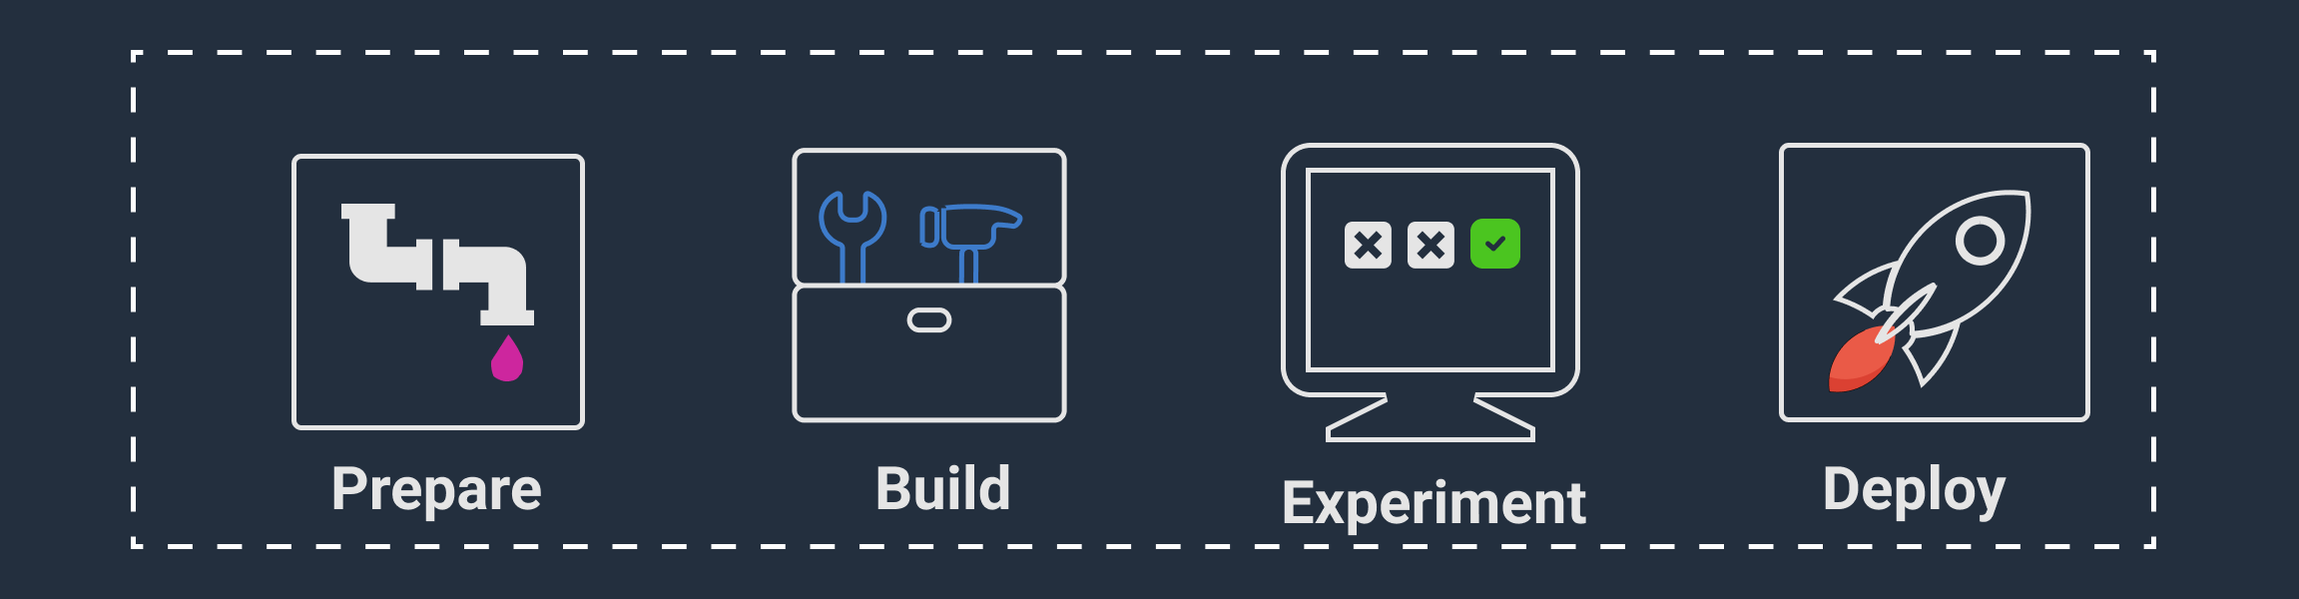
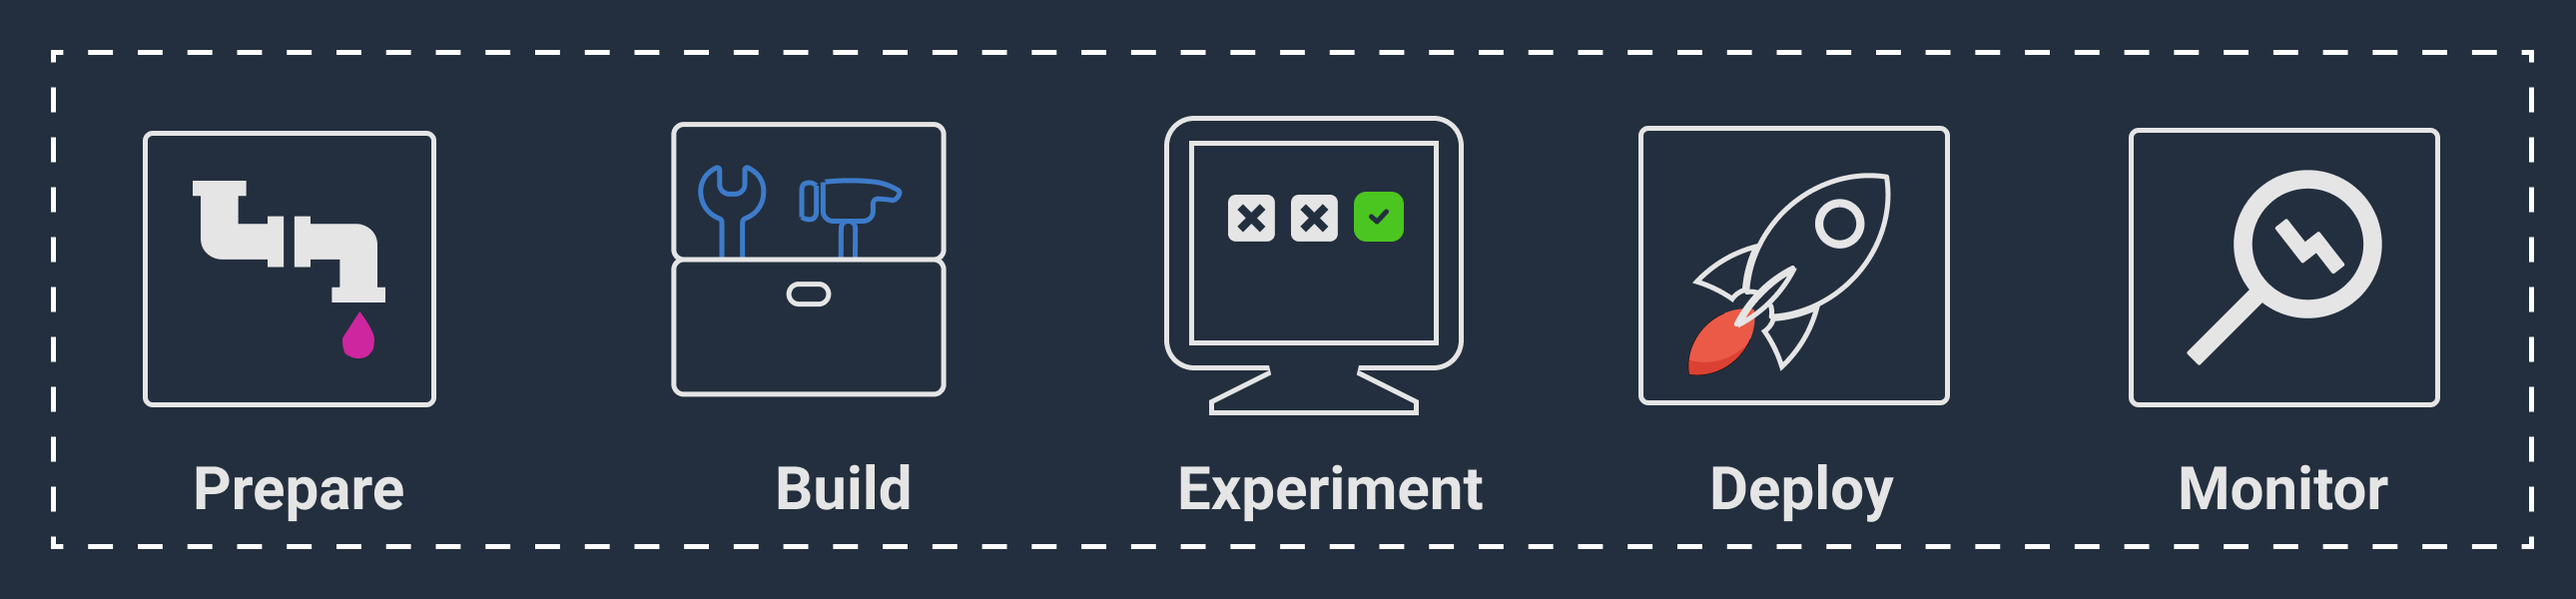
container life-cycles and templates

diff --git a/docs/.vuepress/config.js b/docs/.vuepress/config.js
@@ -58,6 +58,7 @@ module.exports = {
             './',
             'quickStart',
             'coreConcepts',
+            'platforms',
             'contributing'
           ]
         },
@@ -68,7 +69,8 @@ module.exports = {
             '../cli/container',
             '../cli/local',
             '../cli/registry',
-            '../cli/configure'
+            '../cli/configure',
+            '../cli/templates'
           ]
         }
       ],
@@ -80,7 +82,8 @@ module.exports = {
             'container',
             'local',
             'registry',
-            'configure'
+            'configure',
+            'templates'
           ]
         }
       ]

diff --git a/docs/guide/coreConcepts.md b/docs/guide/coreConcepts.md
@@ -6,48 +6,75 @@ In our experience, getting machine learning to production meant solving the foll
 
 ![mldock-core-functions](/images/mldock-core-functions.png)
 
-As MLDOCK is a docker-based tool, it solves the these challenges by leveraging the standard docker API's (build, run, etc). Ofcourse the most powerful of the docker functionality is the ability to encapsulate everything an application needs to run in to a single image ie. providing and running scripts, deploying a server to deploy your code, passing parameters to scripts through environment variables and command line arguments. To satisfy the rest of the requirements and bring it all together, MLDOCK provides a design system for [container life-cycle management](./coreConcepts.html#container-life-cycle-management).
+As MLDOCK is a docker-based tool, it solves the these challenges by leveraging the standard docker API's (build, run, etc). Ofcourse the most powerful of the docker functionality is the ability to encapsulate everything an application needs to run in to a single container project ie. providing and running scripts, deploying a server to deploy your code, passing parameters to scripts through environment variables and command line arguments. To satisfy the rest of the requirements and bring it all together, MLDOCK provides a design system for container life-cycle management.
 
 ## Container Life-Cycle Management
 
-Similar to how your training script describes the steps taken to train a new machine learning model, a container has life-cycle or set of steps that define when and how certain tasks should be done. A typical container life-cycle could comprise of:
+Similar to how your training script describes the steps taken to train a new machine learning model, a container has a life-cycle or set of steps that define when and how certain tasks should be done. Mldocks's standard container life-cycle can be described by the following steps:
 
 ![mldock-container-lifecycle-management](/images/mldock-container-lifecycle-management.png)
 
 We call it a design system because at it's core we provide a base environment class that can be inherited and extended. Allowing you to build new life-cycles for your requirements, including any new cloud platforms and just about any additional API calls and pythonic code.
 
+### How MLDOCK supports container life-cycles
+
+MLDOCK provides a base `Environment()` class that is used as a basis to all our container life-cycle workflows.
+In short, this class sets up:
+1. container working directory at `/opt/ml`.
+2. Reads the environment variables to get `input, model, output` channels set up and downloaded.
+3. Reads the environment variables to find `hyperparameters`.
+
+We then leverage the `Environment()` class within the `Assets.py` script to create container life-cycle configuration classes i.e. `TrainingContainer` and `ServingContainer`. These classes that take an `Environment()` object at `__init__` and have methods `startup()` and `cleanup()`. Together the environment and `startup()` and `cleanup()` methods are used to:
+- prepare the container (as described above)
+- download machine learning assets before the main script executes.
+- upload machine learning assets once the main script is done executing.
+
 ## Supported Life-Cycles
 
-Currently supports we support to life-cycle management types out of the box, namely:
+Currently, we support to life-cycle management types out of the box, namely:
 1. `Environment()` module based life-cycle management system
 2. `Asset.py` scripted life-cycle management system
 
 ::: tip
-For MLDOCK-based containers both the `Environment()` module and `Assets.py` are provided out the box. By default all they do is set up the appropriate container environment and file-system, but they can be extended to manage machine learning assets, provide platform specific integrations and run clean up tasks on the containers.
+For MLDOCK-based containers both the `Environment()` module and `Assets.py` are required and provided during the [container init](../cli/container.html#initialize) process. By default all they do is set up the appropriate container environment and file-system, but they can be extended to manage machine learning assets, provide platform specific integrations and run clean up tasks on the containers.
 
 :rocket: The possiblities are almost endless.
 :::
 
 
-##### Environment() module
+### Environment() module
 
 This extends the base environment and adds special environment variables to manage the life-cycle stages. Users can define specific environment variables with prefixes that can be automatically discovered at container set up. There really two types of model assets, INPUT - downloaded from blob storage to training instance at task startup and OUTPUT - uploaded back to blob storage no task completion.
 
 | **ENV VAR Prefix Regex** | **Use Case** |
 |--|--|
-| `INPUT_CHANNEL_.*` | Providing input assets for your model container runtime, e.g. Providing training data stored in s3 for your model, `INPUT_CHANNEL_TRAIN=s3://bucket/path/to/directory/containing/data` |
-| `INPUT_MODEL_CHANNEL_.*` | Providing a pre-trained model or previously trained model checkpoint for container runtime, e.g. If stored in s3 this could be: `INPUT_MODEL_CHANNEL_RESNET=s3://bucket/path/to/directory/containing/resnet/model` |
-| `OUTPUT_CHANNEL_.*` | Instructing mldock where upload resulting assets from training completion, e.g. If using s3 as your remote it could look like this: `INPUT_CHANNEL_TRAIN=s3://bucket/path/to/directory/to/upload/output/data` |
-| `OUTPUT_MODEL_CHANNEL_.*` | Instructing mldock where upload completed or trained model assets on training completion, e.g. If using s3 as your remote it could look like this: `OUTPUT_MODEL_CHANNEL_MYMODEL=s3://bucket/path/to/directory/containing/mymodel/model` |
+| `MLDOCK_INPUT_CHANNEL_.*` | Providing input assets for your model container runtime, e.g. Providing training data stored in s3 for your model, `MLDOCK_INPUT_CHANNEL_TRAIN=s3://bucket/path/to/directory/containing/data` |
+| `MLDOCK_INPUT_MODEL_CHANNEL_.*` | Providing a pre-trained model or previously trained model checkpoint for container runtime, e.g. If stored in s3 this could be: `MLDOCK_INPUT_MODEL_CHANNEL_RESNET=s3://bucket/path/to/directory/containing/resnet/model` |
+| `MLDOCK_OUTPUT_CHANNEL_.*` | Instructing mldock where upload resulting assets from training completion, e.g. If using s3 as your remote it could look like this: `MLDOCK_INPUT_CHANNEL_TRAIN=s3://bucket/path/to/directory/to/upload/output/data` |
+| `MLDOCK_OUTPUT_MODEL_CHANNEL_.*` | Instructing mldock where upload completed or trained model assets on training completion, e.g. If using s3 as your remote it could look like this: `MLDOCK_OUTPUT_MODEL_CHANNEL_MYMODEL=s3://bucket/path/to/directory/containing/mymodel/model` |
 
 ::: tip
-Please note in the local CLI all environment variables provided in the `mldock.json` configuration are prefixed with `MLDOCK_` before being passed in to the container environment. E.g. Say you wanted to pass a flag to disable CSV headers, called `HEADERS=false`, finding them in the MLDOCK container would mean looking for `MLDOCK_HEADERS`. This just makes sure that ENV VARS for both MLDOCK Environment Variables and the Cloud Platform (Sagemaker, etc) Environment Variables can coexist.
+Please note in the local CLI all environment variables provided in the `mldock.json` configuration are prefixed with `MLDOCK_` automatically before being passed in to the container environment. In production, you would do this prefixing manually. E.g. Say you wanted to pass a flag to disable CSV headers, called `HEADERS=false`, finding them in the MLDOCK container would mean looking for `MLDOCK_HEADERS`. This just makes sure that ENV VARS for both MLDOCK Environment Variables and the Cloud Platform (Sagemaker, etc) Environment Variables can coexist.
 :::
 
-##### Asset.py script
+#### How to use the Environment() workfow
+
+To use any of the above `input, model or output` channels, simply add an appropriate channel regex to your environment variables with your given remote path as key. The machine learning assets will be downloaded and uploaded according to your current `Environment()` class i.e. the `AWSEnvironment()` treats `Amazon S3` as your remote and will fetch your machine learning assets from your `Amazon S3` filepath.
+
+### Asset.py script
 
 `Assets.py` is a script provided to define your container life-cycles and instantiate your environment and other shared assets for training or prediction tasks.
 
 ::: tip
 As an advantage of this `Assets.py` design, when you create your container life-cycles by extending the base environment you can use python to set out any additional tasks used during either `startup` or `cleanup` steps which are called before your script and on final after your script execution.
 :::
+
+#### How to use the Assets.py workfow
+
+Using python, extend your `TrainingContainer()` and `ServingContainer()` to add additional tasks that mldock should execute when running `startup()` and `cleanup()` methods.
+
+## Stages to support different workflows
+
+Stages provides the developer with ways to design different workflows for production, development and testing. `MLDOCK_STAGE` environment variable is pulled in your container and allows your to run different container `startup()` and `cleanup()` workflows according your stage.
+
+Extending the `Assets.py` workflow, we can now bring in `MLDOCK_STAGE` to allow the developer to fetch data or upload data to different places.

diff --git a/docs/guide/README.md b/docs/guide/README.md
@@ -1,10 +1,18 @@
 # Introducing MLDOCK :tada:
 
-As Data Scientists, docker can be both a huge enabler and a huge headache. And if you're a Data Scientist with a goal of deploying machine learning in to production, you might find that MLOps and Data Ops take up 90% of your time.
+As Data Scientists, docker can be both a huge enabler and a huge headache. And if you're developing machine learning with a goal of deploying to production, you might find that MLOps and Data Ops take up a huge chunk of your time.
 
-Questions like .. "Which server, where to serve, how to maintain the code, how to maintain the model..." become huge set of hurdles to overcome. Nevermind the challenges of validating experiments, analyzing performance and generating insights for better algorithms. The real data science. :microscope: ;)
+Questions like .. "Which server, where to serve, how to maintain the code, how to maintain the model..." become huge set of hurdles to overcome. Nevermind the challenges of validating experiments, analyzing performance and generating insights for better algorithms. :microscope:
 
 That is why we built MLDOCK. **To support the development of machine learning and enable you to get more models to production, faster and easier**.
+AT MLDOCK aour goal is to provide tools that help you **"Build local, Deploy everywhere"**. :whale:, so that you:
+
+- :heavy_check_mark: Spend more time validating :balance_scale:, experimenting :alembic: and getting new features in to production :
+- :x: lose far less hours :stopwatch: struggling with bash scripts
+- :heavy_check_mark: Combine MLDOCK with any open-source platform or tool :hammer: to achieve your Machine learning goals :dart:.
+- :x: lose far less energy :zap: wrangling your machine learning assets.
+- :heavy_check_mark: Think less about docker :thinking:, push :arrow_up: :cloud: more models to production.
+- :x: use far less effort :muscle: converting development code in to code that runs in production.
 
 ## Where does MLDOCK fit in?
 
@@ -15,27 +23,46 @@ The typical production machine learning workflow comprises, speaking broadly, of
 2. **Build** - Developing an algorithm.
 3. **Experiment** - Running Experiments.
 4. **Deploy** - Deploying to production.
+5. **Monitor** - Monitoring ML service and model performance
 
-In our modern world there are many options, opinions and solutions to getting to production. Many platforms and tools focused on the core steps in production machine learning process, namely data preparation, experimentation and deploying models but very few provided simple tools for building and developing machine learning. Deploying to the cloud was like a game of wack-a-mole, hoping that nothing exploded. :bomb: Many of which require hours of onboarding and research to get even the simplest model to production. Even worse so, some even have partially helpful "getting started" documentation focused on getting you started on day 1. But on day 2 you realize just how much more you need to do to make the system productive. 
+### We want to bridge the gap... :rainbow:
 
-At MLDOCK we saw a different way, **"Build local, Deploy everywhere"**. :whale:
+In our modern world there are many options, opinions and solutions to getting to production. The most prominent platforms tend to either start at the experimentation side, hoping to help you iterate ideas faster, or start on the production side, putting all their attention to helping you run your ML code on a computer in the cloud. With all this power comes great complexity however, and can mean getting started :checkered_flag: :car: with ml in production can still mean months of work.
 
-Inspired by the great work done by [Amazon Sagemaker](https://aws.amazon.com/sagemaker/), [Sagemaker Training Toolkit](https://github.com/aws/sagemaker-training-toolkit) and [Sagify](https://github.com/Kenza-AI/sagify) we felt a tool was needed to provide a true seamless local development experience which lined up well with how models could be deployed in production.
+We want to build tooling that bridges the gap, allowing you to add any tools to support the various parts of your ML workflow and then finally deploy to any cloud platform.
 
-#### Develop locally with mldock
-We focused on **build local first approach**. Starting with a command line tool that came with many of the docker development conveniences built in but without the mess of bash scripts everywhere. MLDOCK brings the power of docker and frames it around the core machine learning tasks related to production.
+![ml ecosystem with mldock](/images/ml-ecosystem-w-mldock.png)
+
+### We see things differently... :rocket:
+
+At MLDOCK we see things differently, we want to provide development tooling that connects all the aspects of machine learning toegether. :eyes: Focusing on ease of development while allowing you to deploy :rocket: to any cloud platform your heart desires. At MLDOCK, we think of ML applications in a similar light to web applications or backend server applications. At MLDOCK, our goal is to provide open-source, agnostic tooling so that you can start simply and build on top of it as your need grows.
+
+![mldock is inspired by](/images/mldock-analogs.png)
+
+Inspired by web development community tooling such as [Laravel](https://laravel.com/) and [Nuxt](https://nuxtjs.org/). And building on the awesome work done by [Amazon Sagemaker](https://aws.amazon.com/sagemaker/), [Sagemaker Training Toolkit](https://github.com/aws/sagemaker-training-toolkit) and [Sagify](https://github.com/Kenza-AI/sagify) we felt a tool was needed to provide a true seamless local development experience which lined up well with how models could be deployed in production.
+
+## Develop locally, deploy Everywhere
+
+We focused on **build local first approach**. Starting with a command line tool that uses the docker engine and tools but packs in ml focused conveniences so you don't have to write any new bash commands and code.
 
 ![build-with-mldock](/images/build-with-mldock.png)
 
 #### Going from build to deploy
+
 From here you can trust that your container will be stable and production ready out the box. A true local development experience in which you **Build** local and **Deploy** to the cloud.
 
 ![Build-to-deploy](/images/Build-to-deploy.png)
 
 #### Deploy everywhere
+
 We mean this in the truest sense. Where most platforms try to lock you in to their eco-system, MLDOCK gives you robust portability to be able to deploy your code anywhere. Train on a fully managed serverless service and deploy to any other container service as you need. The goal of MLDOCK is to provide a system that supports this portability :tada:
 
 We currently support many of the top machine learning cloud platforms and are adding new platforms in an on going process. 
 
 
 ![deploy-w-mldock](/images/deploy-w-mldock.png)
+
+::: tip
+Find out more, see our full list of [supported cloud platforms](platforms.html)
+
+:::

diff --git a/docs/guide/platforms.md b/docs/guide/platforms.md
@@ -1,0 +1,17 @@
+# Cloud Platforms
+
+MLDOCK's core goals mean that it works for any container service that can run docker, with the only caveats being service specific limitations.
+At it's heart :heart: MLDOCK is designed to enable docker-based container development workflows.
+
+## Supported Platforms
+
+A complete list of supported cloud platforms:
+
+||| Registry | training jobs | deploy jobs |
+| -- |--| -- | -- | -- |
+|![dockerhub registry logo](/images/dockerhub-registry-logo-60x60.png)| DockerHub | :white_check_mark: | :heavy_minus_sign: | :heavy_minus_sign: |
+|![aws elstic container registry](/images/aws-ecr-logo-60x60.png)| AWS ECR | :white_check_mark: | :heavy_minus_sign: | :heavy_minus_sign: |
+|![sagemaker-logo-150x150](/images/sagemaker-logo-60x60.png)| Sagemaker | :heavy_minus_sign: | :white_check_mark: | :white_check_mark: |
+|![google container registry](/images/gcp-gcr-logo-60x60.png)| GCP GCR | :white_check_mark: | :heavy_minus_sign: | :heavy_minus_sign: |
+|![kubernetes-logo-150x150](/images/kubernetes-logo-60x60.png)| Kubernetes | :heavy_minus_sign: | :white_check_mark: | :white_check_mark: |
+|![gcp-aiplatform-logo-150x150](/images/gcp-aiplatform-logo-60x60.png)| GCP AI Platform | :heavy_minus_sign: | :white_check_mark: | :x: |

diff --git a/docs/cli/container.md b/docs/cli/container.md
@@ -48,39 +48,6 @@ Will create your new project based on an previous template or project
 
 :::
 
-
-## Create Template
-
-```bash
-usage: mldock container create_template [--dir <path>] [--name <text>]
-                                    [--out <path>]
-```
-
-#### Description
-`Create a MLDOCK enabled container template.`
-
-`Tnitialize MLDOCK enabled container`
-
-#### Options
-
-`--dir` Path to MLDOCK container project directory.
-
-`--name` Name of new template to create.
-
-`--out` Path to save MLDOCK container template to.
-
-::: details
-Given 
-
-```mldock --dir=my-container-project --name=awesome-template --out=./my_templates```
-
-Would yield a MLDOCK template 
-
-```./my_templates/awesome-template```
-
-To create a new project from your template see [Initialize Project](./container.html#initialize).
-:::
-
 ## Update
 
 ```bash

diff --git a/docs/cli/templates.md b/docs/cli/templates.md
@@ -1,0 +1,24 @@
+# Templates
+
+#### Description
+`A collection of commands to create and manage mldock container templates.`
+
+This collection of commands helps to configure your CLI for development. It includes setting up Authentication in-line with cloud vendor command line tools and also provides an approach to set static environment variables such as those required by these cloud vendor CLI tools.
+
+## Create
+
+```bash
+usage: mldock templates create [--dir <path>] [--name <text>] [--out <text>]
+```
+
+#### Description
+`Pull docker container image from Image Registry.`
+
+#### Options
+
+`--dir` path to MLDOCK directory.
+
+`--name` name of the container to write.
+
+`--out` Path to location where template should be written. (Only supports local paths).
+

diff --git a/docs/cli/configure.md b/docs/cli/configure.md
@@ -14,3 +14,24 @@ usage: mldock configure local
 #### Description
 `Used to configure the local CLI commands. Starts a prompt to help user configure their local CLI.`
 
+## Templates
+
+```bash
+usage: mldock configure templates
+```
+
+#### Description
+`Used to configure the templates server configurations.`
+
+::: tip
+Supports using templates either in local file-system or in remote github repository.
+:::
+
+## Reset
+
+```bash
+usage: mldock configure reset [--config-name <text>]
+```
+
+#### Description
+`Reset/remove any or all of the configurations set in the CLI.`
